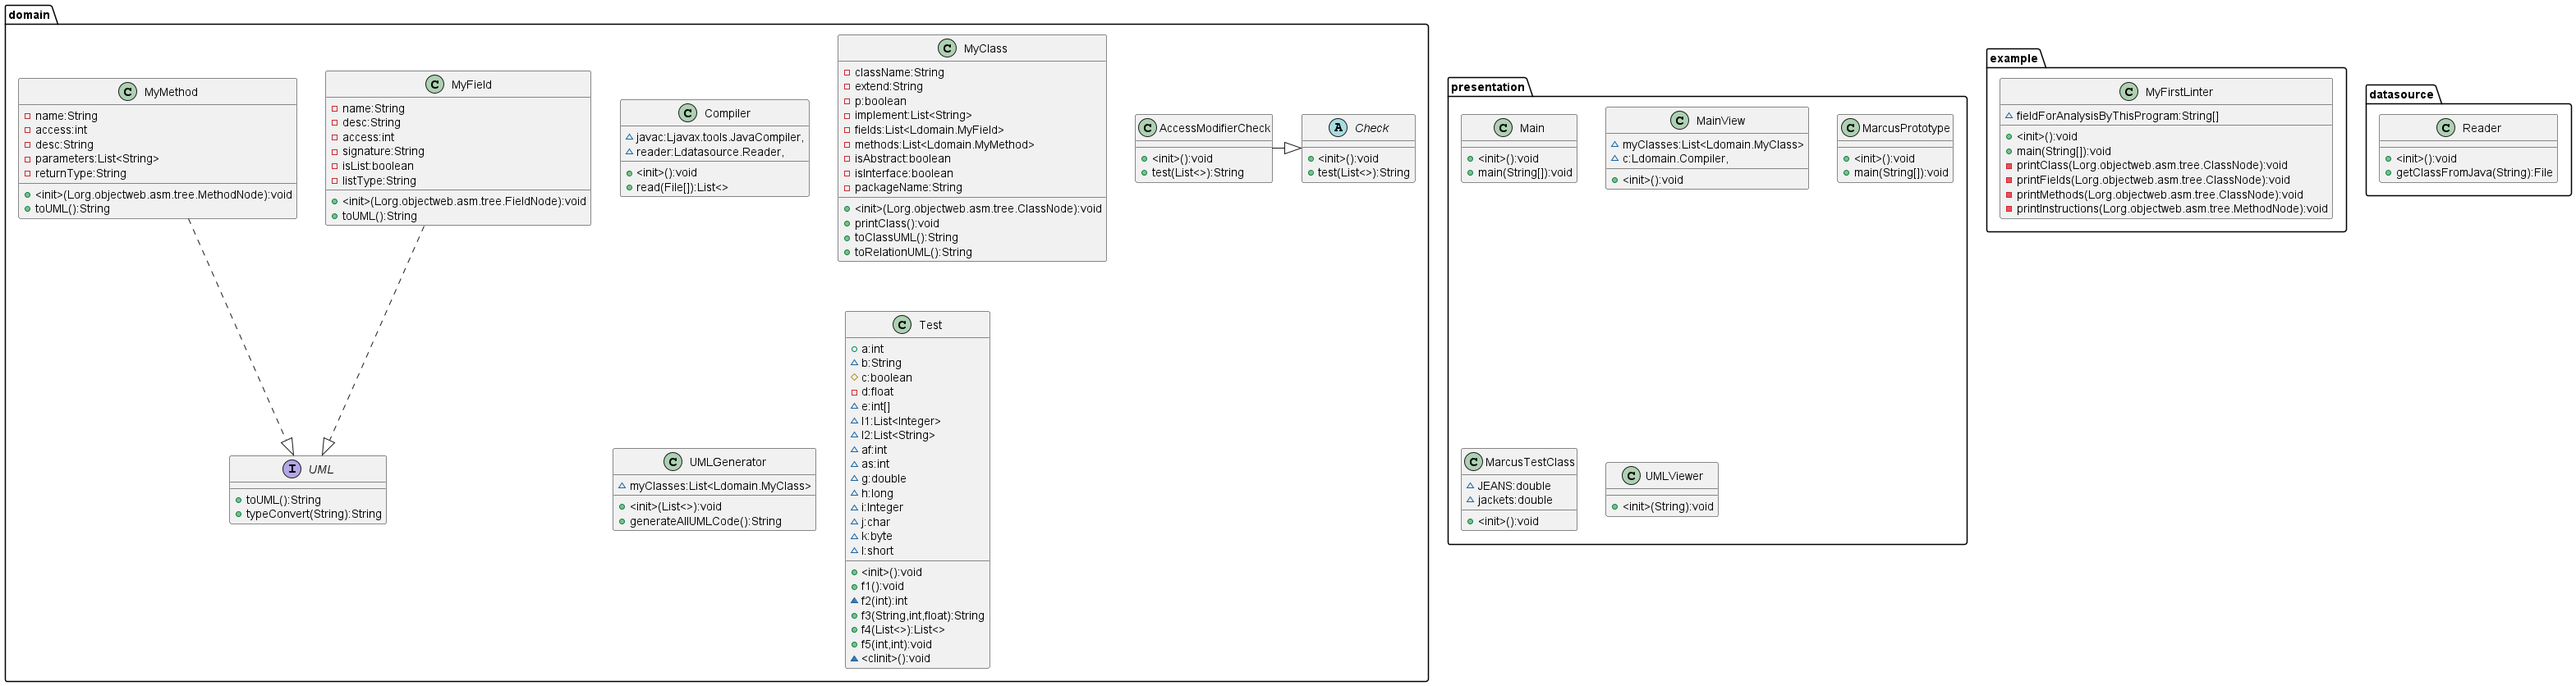
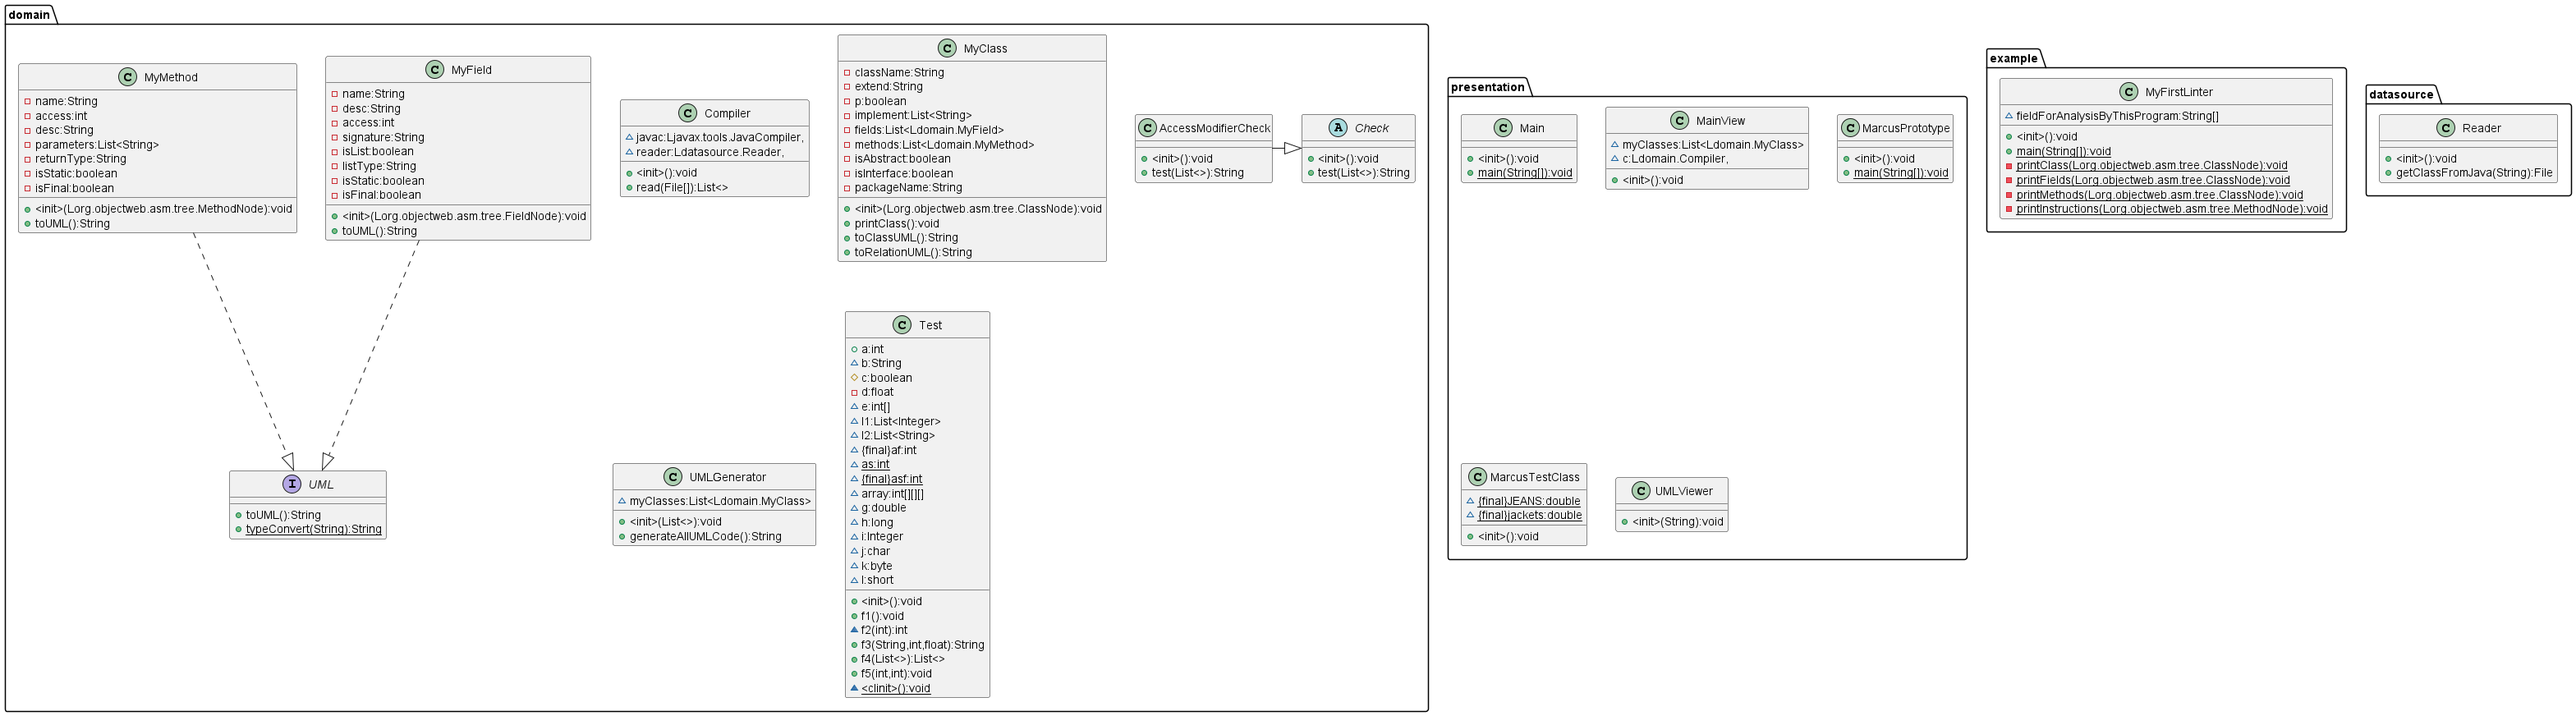
add static final, UI adjustment
Add static and final in field and method, adjust the picture into the UI but would be reshaped.

diff --git a/src/main/java/presentation/MainView.java b/src/main/java/presentation/MainView.java
@@ -24,6 +24,7 @@ public class MainView {
 		frame.setTitle("main view");
 		frame.setSize(960,540);
 		JPanel p1=new JPanel();
+		frame.add(p1,BorderLayout.NORTH);
 		
 		JLabel l1=new JLabel("please import java files");
 		p1.add(l1);
@@ -41,9 +42,7 @@ public class MainView {
 		        chooser.setFileFilter(filter);
 		        chooser.showOpenDialog(null);
 		    	File[] files=chooser.getSelectedFiles();
-//		    	File[] files=new File[]{new File("./src/test/java/domain/Test.java")};//choose specific file to test accessing
-//		    	File[] files=new File[]{new File("./")};
-		    	
+		    	l1.setText("loading");
 		    	try {
 					myClasses=c.read(files);
 				} catch (IOException exception) {
@@ -56,12 +55,13 @@ public class MainView {
 		});
 		p1.add(b1);
 		
-		JButton b2=new JButton("import text.java");
+		JButton b2=new JButton("import src/test/java/domain/Test.java");
 		b2.addActionListener(new ActionListener() {
 
 			@Override
 			public void actionPerformed(ActionEvent e) {
 				// TODO Auto-generated method stub
+				l1.setText("loading");
 		    	File[] files=new File[]{new File("./src/test/java/domain/Test.java")};//choose specific file to test accessing
 //		    	File[] files=new File[]{new File("./")};
 		    	try {
@@ -70,13 +70,13 @@ public class MainView {
 					// TODO Auto-generated catch block
 					exception.printStackTrace();
 				}
-		    	l1.setText("test imported");
+		    	l1.setText("test file imported");
 			}
 			
 		});
 		p1.add(b2);
 		
-		JButton b3=new JButton("display UML code");
+		JButton b3=new JButton("print UML code in console");
 		b3.addActionListener(new ActionListener() {
 
 			@Override
@@ -91,14 +91,33 @@ public class MainView {
 					String code=uml.generateAllUMLCode();
 			    	System.out.println(code);
 			    	l1.setText("UML printed");
-			    	new UMLViewer(code);
 				}
 			}
 			
 		});
 		p1.add(b3);
 		
-		frame.add(p1,BorderLayout.NORTH);
+		JButton b4=new JButton("display UML code in window");
+		b4.addActionListener(new ActionListener() {
+
+			@Override
+			public void actionPerformed(ActionEvent e) {
+				// TODO Auto-generated method stub
+				if(myClasses==null||myClasses.size()==0) {
+					System.out.println("please import files first");
+					l1.setText("please import files first");
+				}else {
+					//open UMLViewer
+					UMLGenerator uml=new UMLGenerator(myClasses);
+					String code=uml.generateAllUMLCode();
+			    	l1.setText("UML displayed");
+			    	new UMLViewer(code);
+				}
+			}
+			
+		});
+		p1.add(b4);
+		
 		frame.setVisible(true);
 		
 	}

diff --git a/src/main/java/domain/MyMethod.java b/src/main/java/domain/MyMethod.java
@@ -6,6 +6,7 @@ import java.util.LinkedList;
 import org.objectweb.asm.Attribute;
 import org.objectweb.asm.Opcodes;
 import org.objectweb.asm.tree.MethodNode;
+import org.objectweb.asm.tree.ParameterNode;
 
 public class MyMethod implements UML{
 //	private MethodNode methodNode;
@@ -16,9 +17,13 @@ public class MyMethod implements UML{
 	private List<String> parameters;
 	private String returnType;
 	//sub method from other classes
+	private boolean isStatic;
+	private boolean isFinal;
 	
 	public MyMethod(MethodNode mn) {
-		access=mn.access&(Opcodes.ACC_PUBLIC+Opcodes.ACC_PROTECTED+Opcodes.ACC_PRIVATE);
+		this.access=mn.access&(Opcodes.ACC_PUBLIC+Opcodes.ACC_PROTECTED+Opcodes.ACC_PRIVATE);
+		this.isStatic=(mn.access&Opcodes.ACC_STATIC)!=0;
+		this.isFinal=(mn.access&Opcodes.ACC_FINAL)!=0;
 //		attrs=mn.attrs;
 		this.name=mn.name;
 		this.desc=mn.desc;
@@ -64,19 +69,13 @@ public class MyMethod implements UML{
 			default:
 				s="~";
 		}
-		
-		s+=name;
-//		if(attrs!=null) {
-//			for(Attribute a:attrs) {
-//				s+=UML.typeConvert(a.type)+":";
-//				s+=a.toString();
-//				s+=",";
-//			}
-//		}
-//		int i=desc.lastIndexOf(')')+1;
-//		System.out.println(desc);
-//		s+=UML.typeConvert(desc.substring(0, i))+":"+UML.typeConvert(desc.substring(i));
-		s+="(";
+		if(isStatic) {
+			s+="{static}";
+		}
+		if(isFinal) {
+			s+="{final}";
+		}
+		s+=name+"(";
 		for(String s2:this.parameters) {
 			s+=UML.typeConvert(s2)+",";
 		}

diff --git a/src/main/java/presentation/UMLViewer.java b/src/main/java/presentation/UMLViewer.java
@@ -3,6 +3,7 @@ package presentation;
 import java.io.FileOutputStream;
 import java.io.IOException;
 import java.io.OutputStream;
+import java.awt.Image;
 import java.io.File;
 import java.io.FileNotFoundException;
 
@@ -14,7 +15,7 @@ public class UMLViewer {
 		//https://plantuml.com/api
 		JFrame frame=new JFrame("UML viewer");
 		frame.setTitle("UML view");
-		frame.setSize(480,270);
+		frame.setSize(1440,810);
 		OutputStream png = null;
 		SourceStringReader reader = new SourceStringReader(code);
 		// Write the first image to "png"
@@ -27,8 +28,13 @@ public class UMLViewer {
 		}
 		JPanel p=new JPanel();
 		ImageIcon i=new ImageIcon("./src/main/resources/uml.png");
-		JLabel l=new JLabel(i);
-		frame.add(l);
+		//rescale
+		Image i2=i.getImage().getScaledInstance(frame.getWidth(), frame.getHeight(), Image.SCALE_DEFAULT);
+		ImageIcon i3=new ImageIcon(i2);
+		
+		JLabel l=new JLabel(i3);
+		p.add(l);
+		frame.add(p);
 		
 		frame.setVisible(true);
 	}

diff --git a/src/main/java/domain/MyField.java b/src/main/java/domain/MyField.java
@@ -12,8 +12,13 @@ public class MyField implements UML{
 	private boolean isList;
 	private String listType;
 	
+	private boolean isStatic;
+	private boolean isFinal;
+	
 	public MyField(FieldNode mf) {
-		access=mf.access&(Opcodes.ACC_PUBLIC+Opcodes.ACC_PROTECTED+Opcodes.ACC_PRIVATE);
+		this.access=mf.access&(Opcodes.ACC_PUBLIC+Opcodes.ACC_PROTECTED+Opcodes.ACC_PRIVATE);
+		this.isStatic=(mf.access&Opcodes.ACC_STATIC)!=0;
+		this.isFinal=(mf.access&Opcodes.ACC_FINAL)!=0;
 		this.name=mf.name;
 		this.desc=mf.desc;
 		this.signature=mf.signature;
@@ -37,6 +42,12 @@ public class MyField implements UML{
 				break;
 			default:
 				s="~";
+		}
+		if(isStatic) {
+			s+="{static}";
+		}
+		if(isFinal) {
+			s+="{final}";
 		}
 		if(isList) {
 			//list

diff --git a/src/main/java/datasource/Reader.java b/src/main/java/datasource/Reader.java
@@ -5,8 +5,6 @@ import java.io.File;
 public class Reader {
 	public File getClassFromJava(String javaPath) {
 		String classPath=javaPath.replace(".java", ".class");
-        File classFile=new File(classPath);
-//        System.out.println(javaPath);
-        return classFile;
+        return new File(classPath);
 	}
 }

diff --git a/src/test/java/domain/Test.java b/src/test/java/domain/Test.java
@@ -11,6 +11,8 @@ public class Test {
 	List<String> l2;
 	final int af=0;
 	static int as=0;
+	final static int asf=0;
+	int[][][] array;
 	
 	double g;
 	long h;
